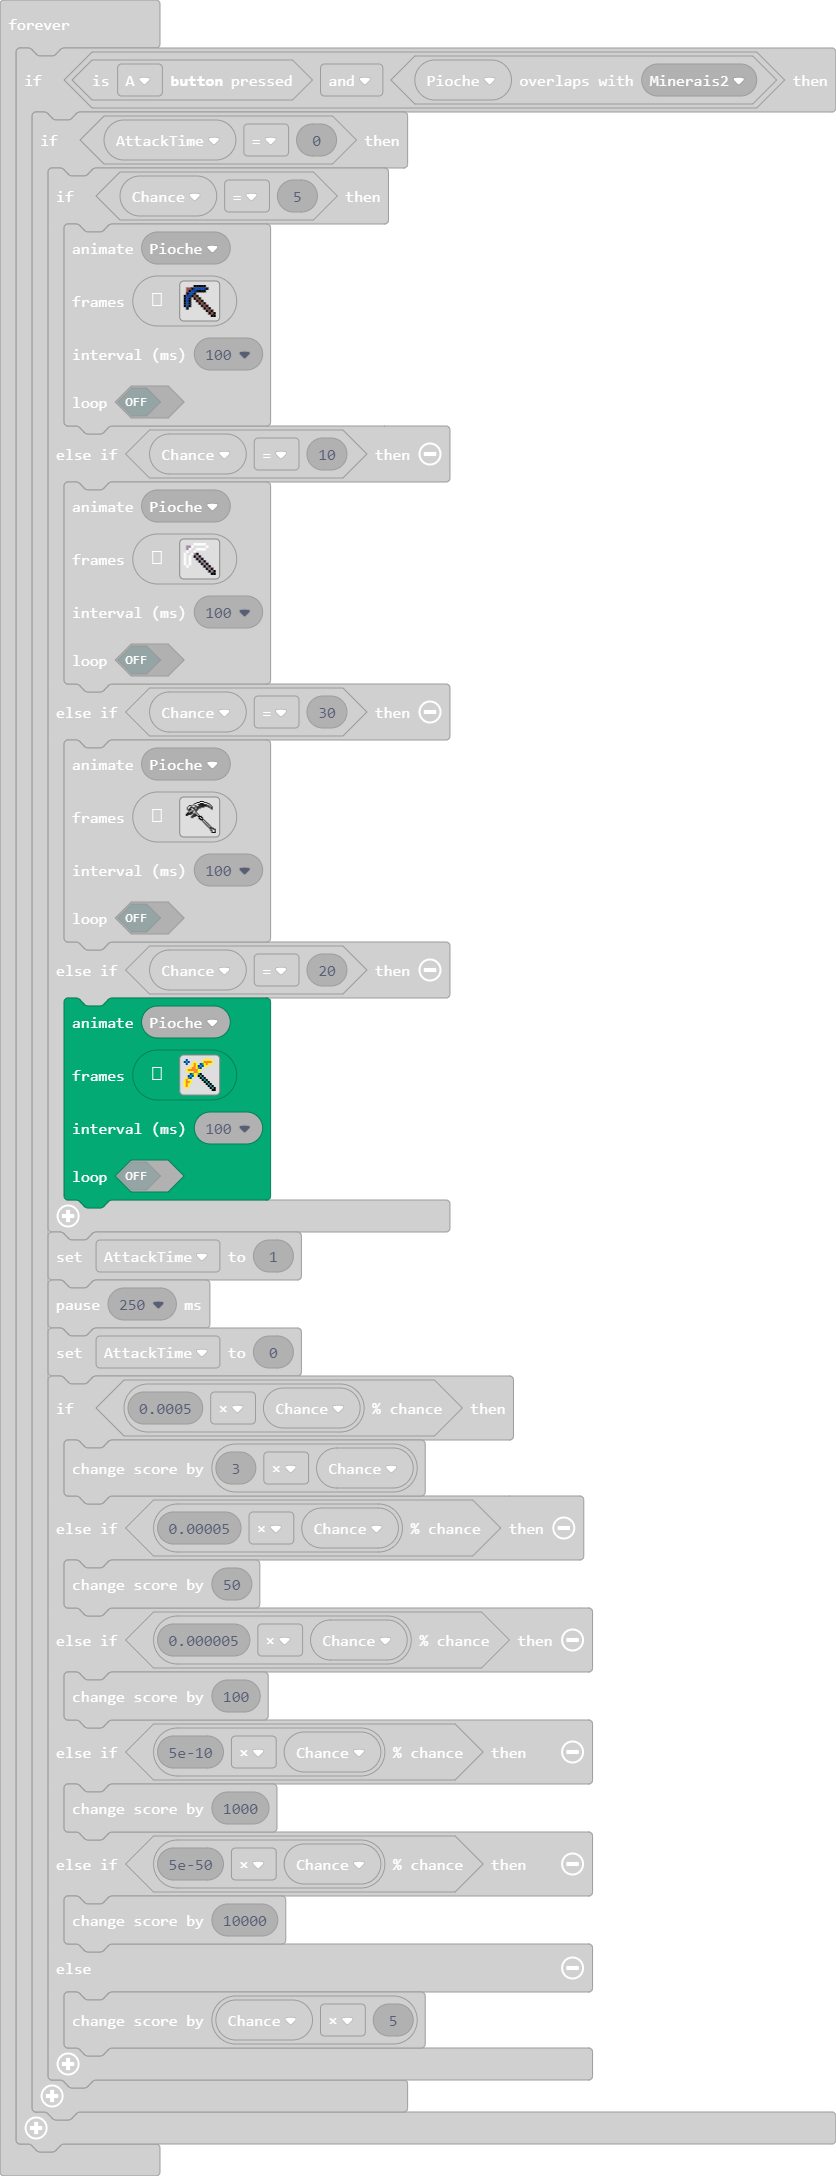
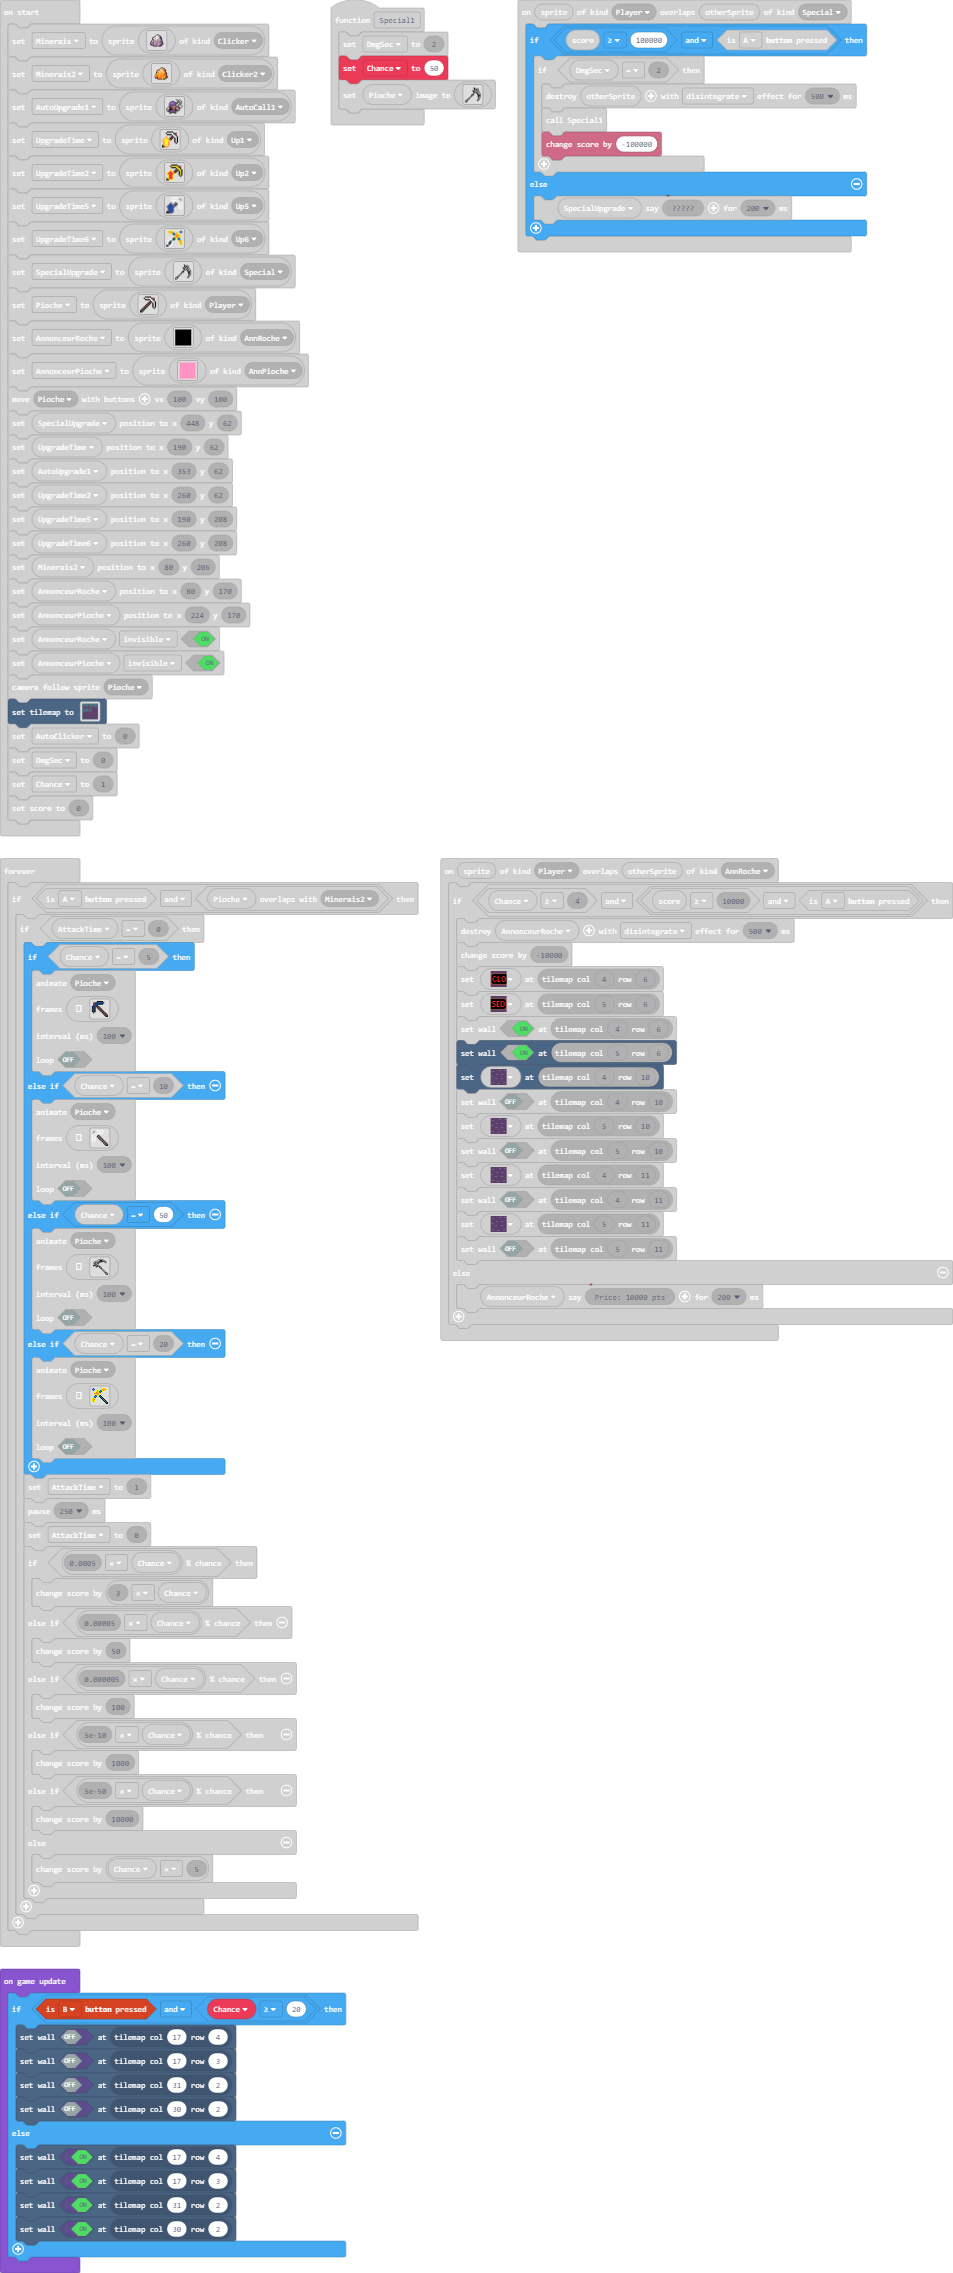
Update main.blocks, main.ts

diff --git a/main.ts b/main.ts
@@ -152,11 +152,11 @@ sprites.onOverlap(SpriteKind.Player, SpriteKind.Up4, function (sprite, otherSpri
     }
 })
 sprites.onOverlap(SpriteKind.Player, SpriteKind.Special, function (sprite, otherSprite) {
-    if (info.score() >= 75000 && controller.A.isPressed()) {
+    if (info.score() >= 100000 && controller.A.isPressed()) {
         if (DmgSec == 2) {
             otherSprite.destroy(effects.disintegrate, 500)
             Special1()
-            info.changeScoreBy(-75000)
+            info.changeScoreBy(-100000)
         }
     } else {
         SpecialUpgrade.say("?????", 200)
@@ -380,7 +380,7 @@ sprites.onOverlap(SpriteKind.Player, SpriteKind.AnnPioche, function (sprite, oth
 })
 function Special1 () {
     DmgSec = 2
-    Chance = 30
+    Chance = 50
     Pioche.setImage(img`
 . . . . . . . . . . . . . . . . . . . . . . . . . . . . . . 
 . . . . . . . . . . . . . . . . . . . . . . . . . . . . . . 
@@ -477,8 +477,6 @@ sprites.onOverlap(SpriteKind.Player, SpriteKind.AnnRoche, function (sprite, othe
         tiles.setTileAt(tiles.getTileLocation(5, 6), myTiles.tile2)
         tiles.setWallAt(tiles.getTileLocation(4, 6), true)
         tiles.setWallAt(tiles.getTileLocation(5, 6), true)
-        tiles.setWallAt(tiles.getTileLocation(17, 4), false)
-        tiles.setWallAt(tiles.getTileLocation(17, 3), false)
         tiles.setTileAt(tiles.getTileLocation(4, 10), sprites.dungeon.darkGroundCenter)
         tiles.setWallAt(tiles.getTileLocation(4, 10), false)
         tiles.setTileAt(tiles.getTileLocation(5, 10), sprites.dungeon.darkGroundCenter)
@@ -841,10 +839,10 @@ tiles.setTilemap(tiles.createTilemap(
             img`
 . . . . . . . . . . . . . . . . . . . . . . . . . . . . . . . . 
 . . . . . . . . . . . . . . . . . . . . . . . . . . . . . . . . 
-2 2 2 2 2 2 2 2 2 2 2 2 2 2 2 2 2 2 . . 2 2 2 2 2 2 2 . . 2 2 2 
-2 2 2 . . . . 2 2 2 2 . . . . . . 2 . . 2 . . 2 2 2 2 . . 2 2 2 
-2 2 2 . . . . 2 2 2 2 . . . . . . 2 . . 2 . . 2 2 2 2 . . 2 2 2 
-2 2 2 2 . . 2 2 2 2 2 2 2 . . 2 2 2 2 2 2 . . 2 2 2 2 2 2 2 2 2 
+2 2 2 2 2 2 2 2 2 2 2 2 2 2 2 2 2 2 . . 2 2 2 2 2 2 2 2 2 2 2 2 
+2 2 2 . . . . 2 2 2 2 . . . . . . 2 . . 2 . . 2 2 2 2 . . 2 . . 
+2 2 2 . . . . 2 2 2 2 . . . . . . 2 . . 2 . . 2 2 2 2 . . . . . 
+2 2 2 2 . . 2 2 2 2 2 2 2 . . 2 2 2 2 2 2 . . 2 2 2 2 . . . . . 
 2 2 2 2 . . 2 2 2 2 2 2 2 . . 2 2 2 2 2 2 . . 2 2 2 2 2 2 2 2 2 
 2 . . . . . . . . . . . . . . . . . . . . . . . . . . . . . . 2 
 2 . . . . . . . . . . . . . . . . . . . . . . . . . . . . . . 2 
@@ -879,6 +877,19 @@ AutoClicker = 0
 DmgSec = 0
 Chance = 1
 info.setScore(0)
+game.onUpdate(function () {
+    if (controller.B.isPressed() && Chance >= 20) {
+        tiles.setWallAt(tiles.getTileLocation(17, 4), false)
+        tiles.setWallAt(tiles.getTileLocation(17, 3), false)
+        tiles.setWallAt(tiles.getTileLocation(31, 2), false)
+        tiles.setWallAt(tiles.getTileLocation(30, 2), false)
+    } else {
+        tiles.setWallAt(tiles.getTileLocation(17, 4), true)
+        tiles.setWallAt(tiles.getTileLocation(17, 3), true)
+        tiles.setWallAt(tiles.getTileLocation(31, 2), true)
+        tiles.setWallAt(tiles.getTileLocation(30, 2), true)
+    }
+})
 forever(function () {
     if (controller.A.isPressed() && Pioche.overlapsWith(Minerais)) {
         if (AttackTime == 0) {
@@ -1189,7 +1200,7 @@ f f . . . . . . . . . . .
                 100,
                 false
                 )
-            } else if (Chance == 30) {
+            } else if (Chance == 50) {
                 animation.runImageAnimation(
                 Pioche,
                 [img`
